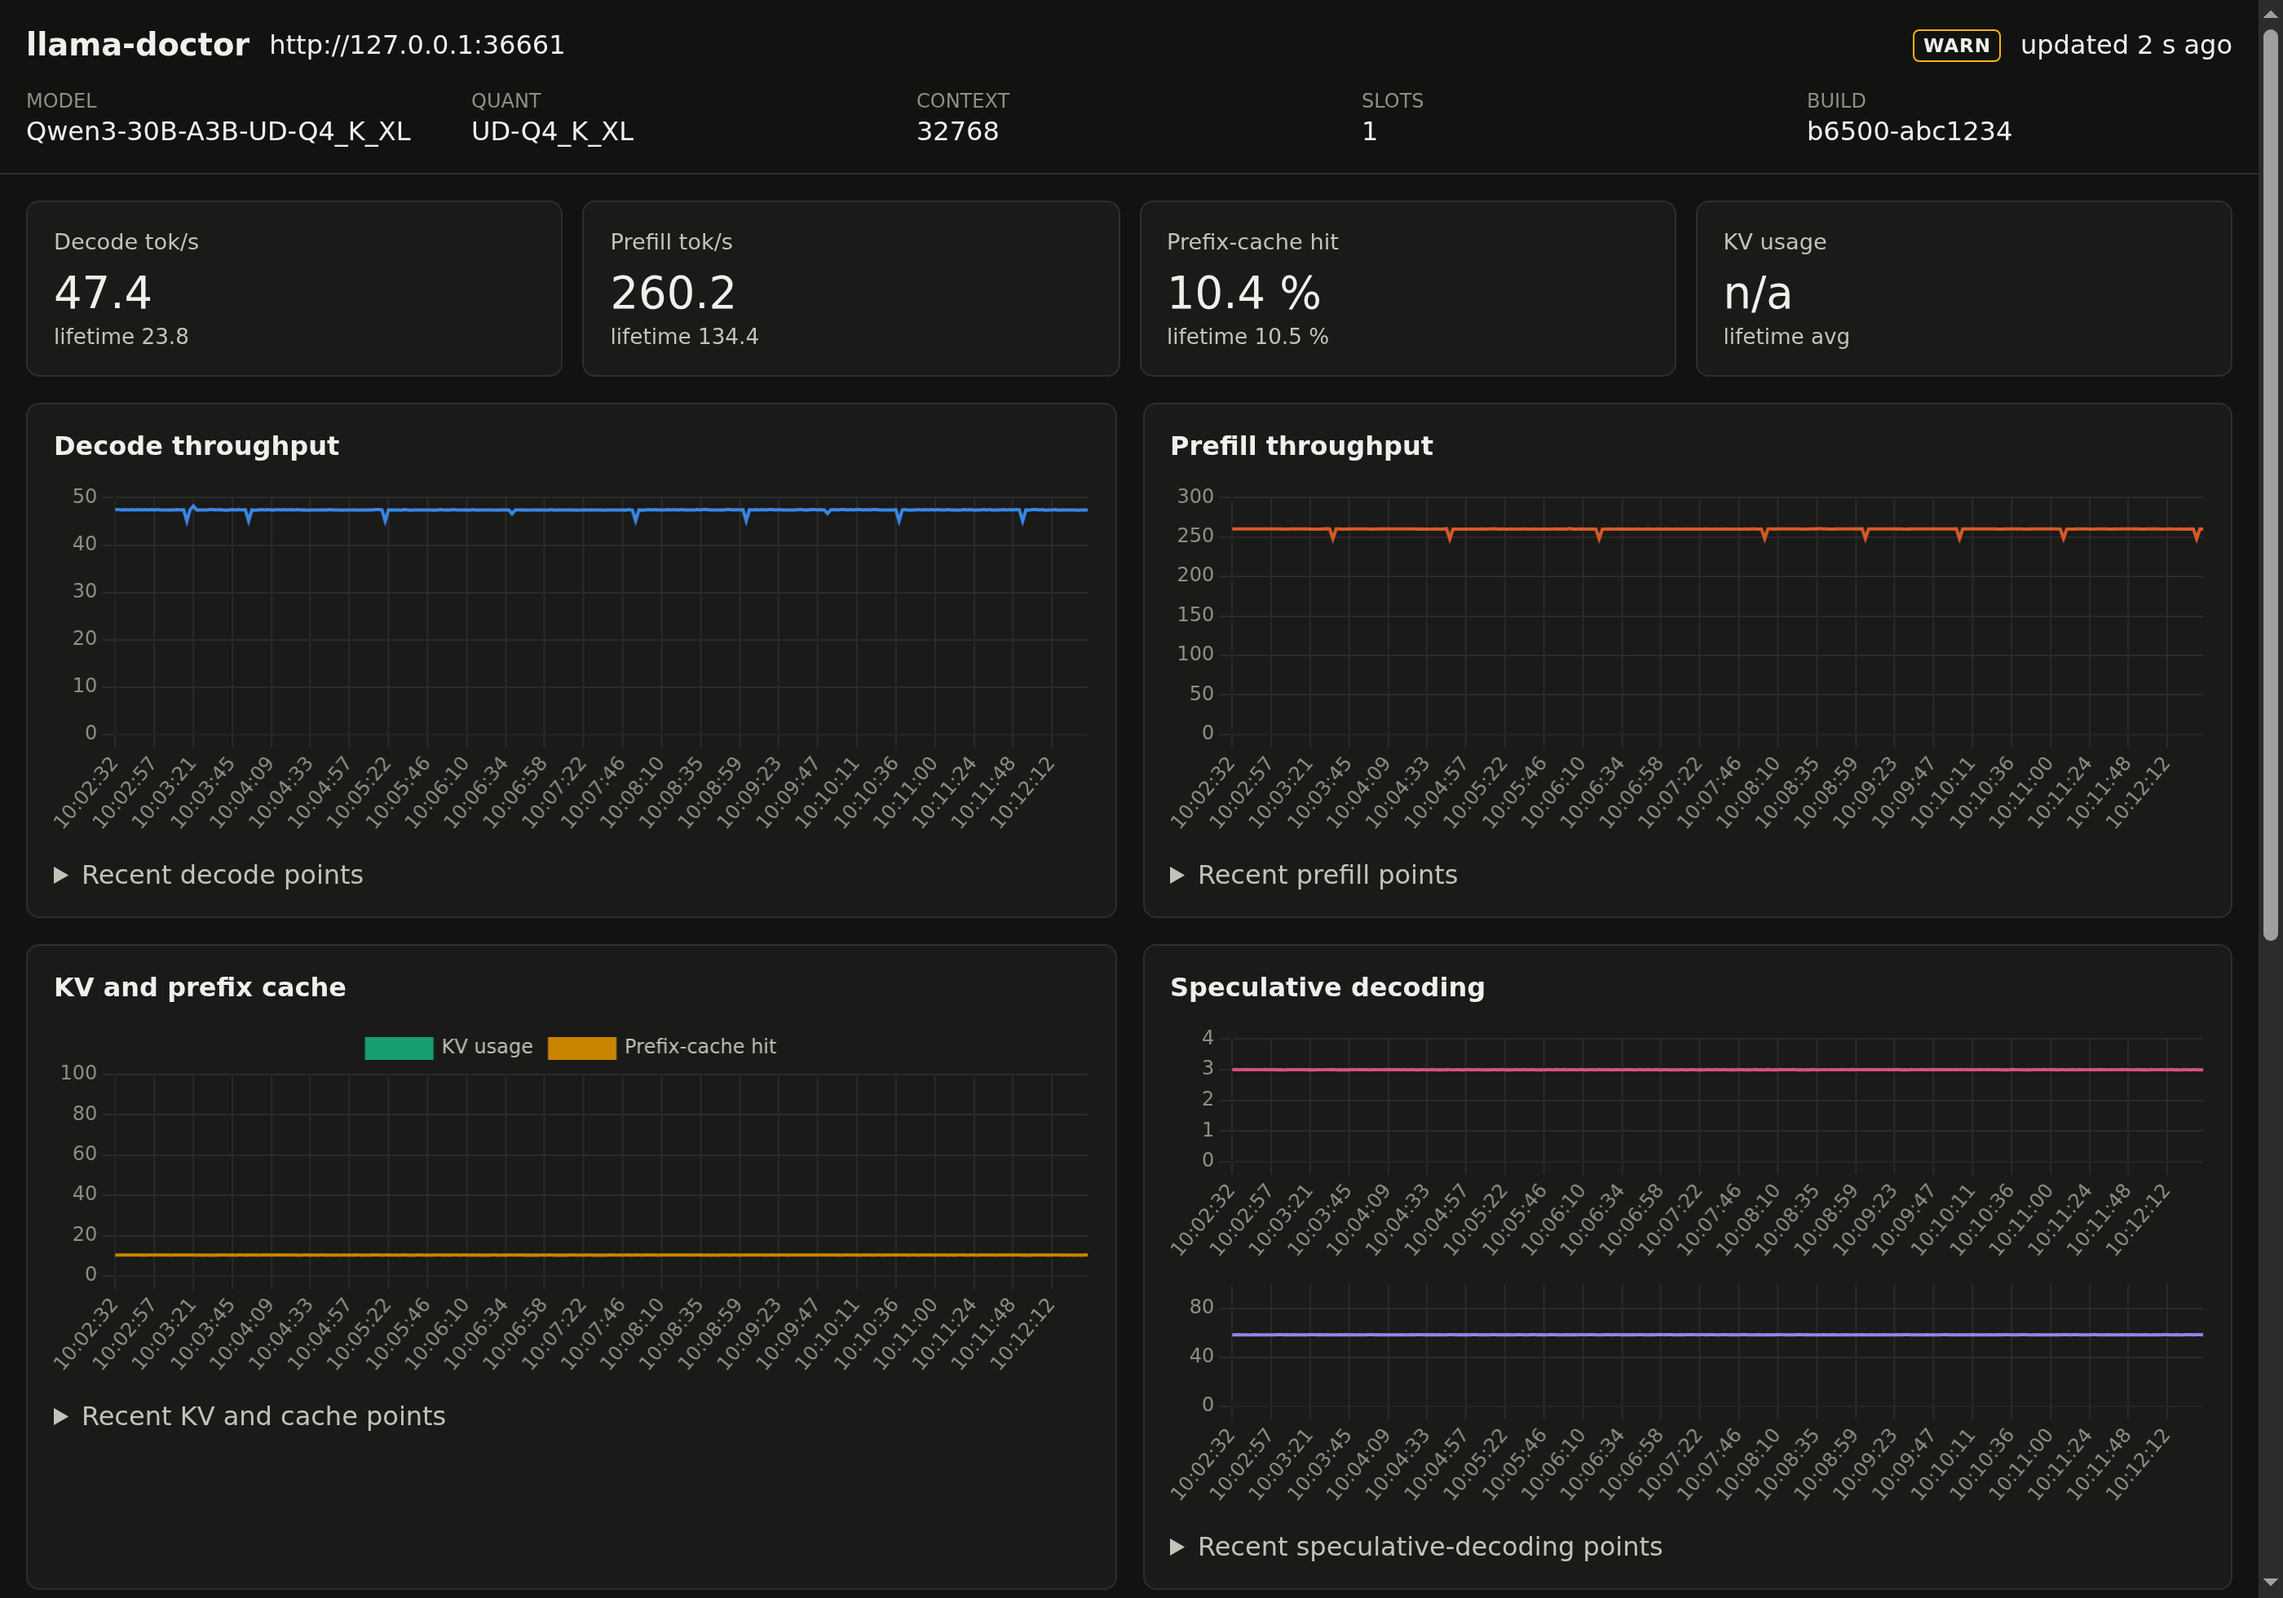
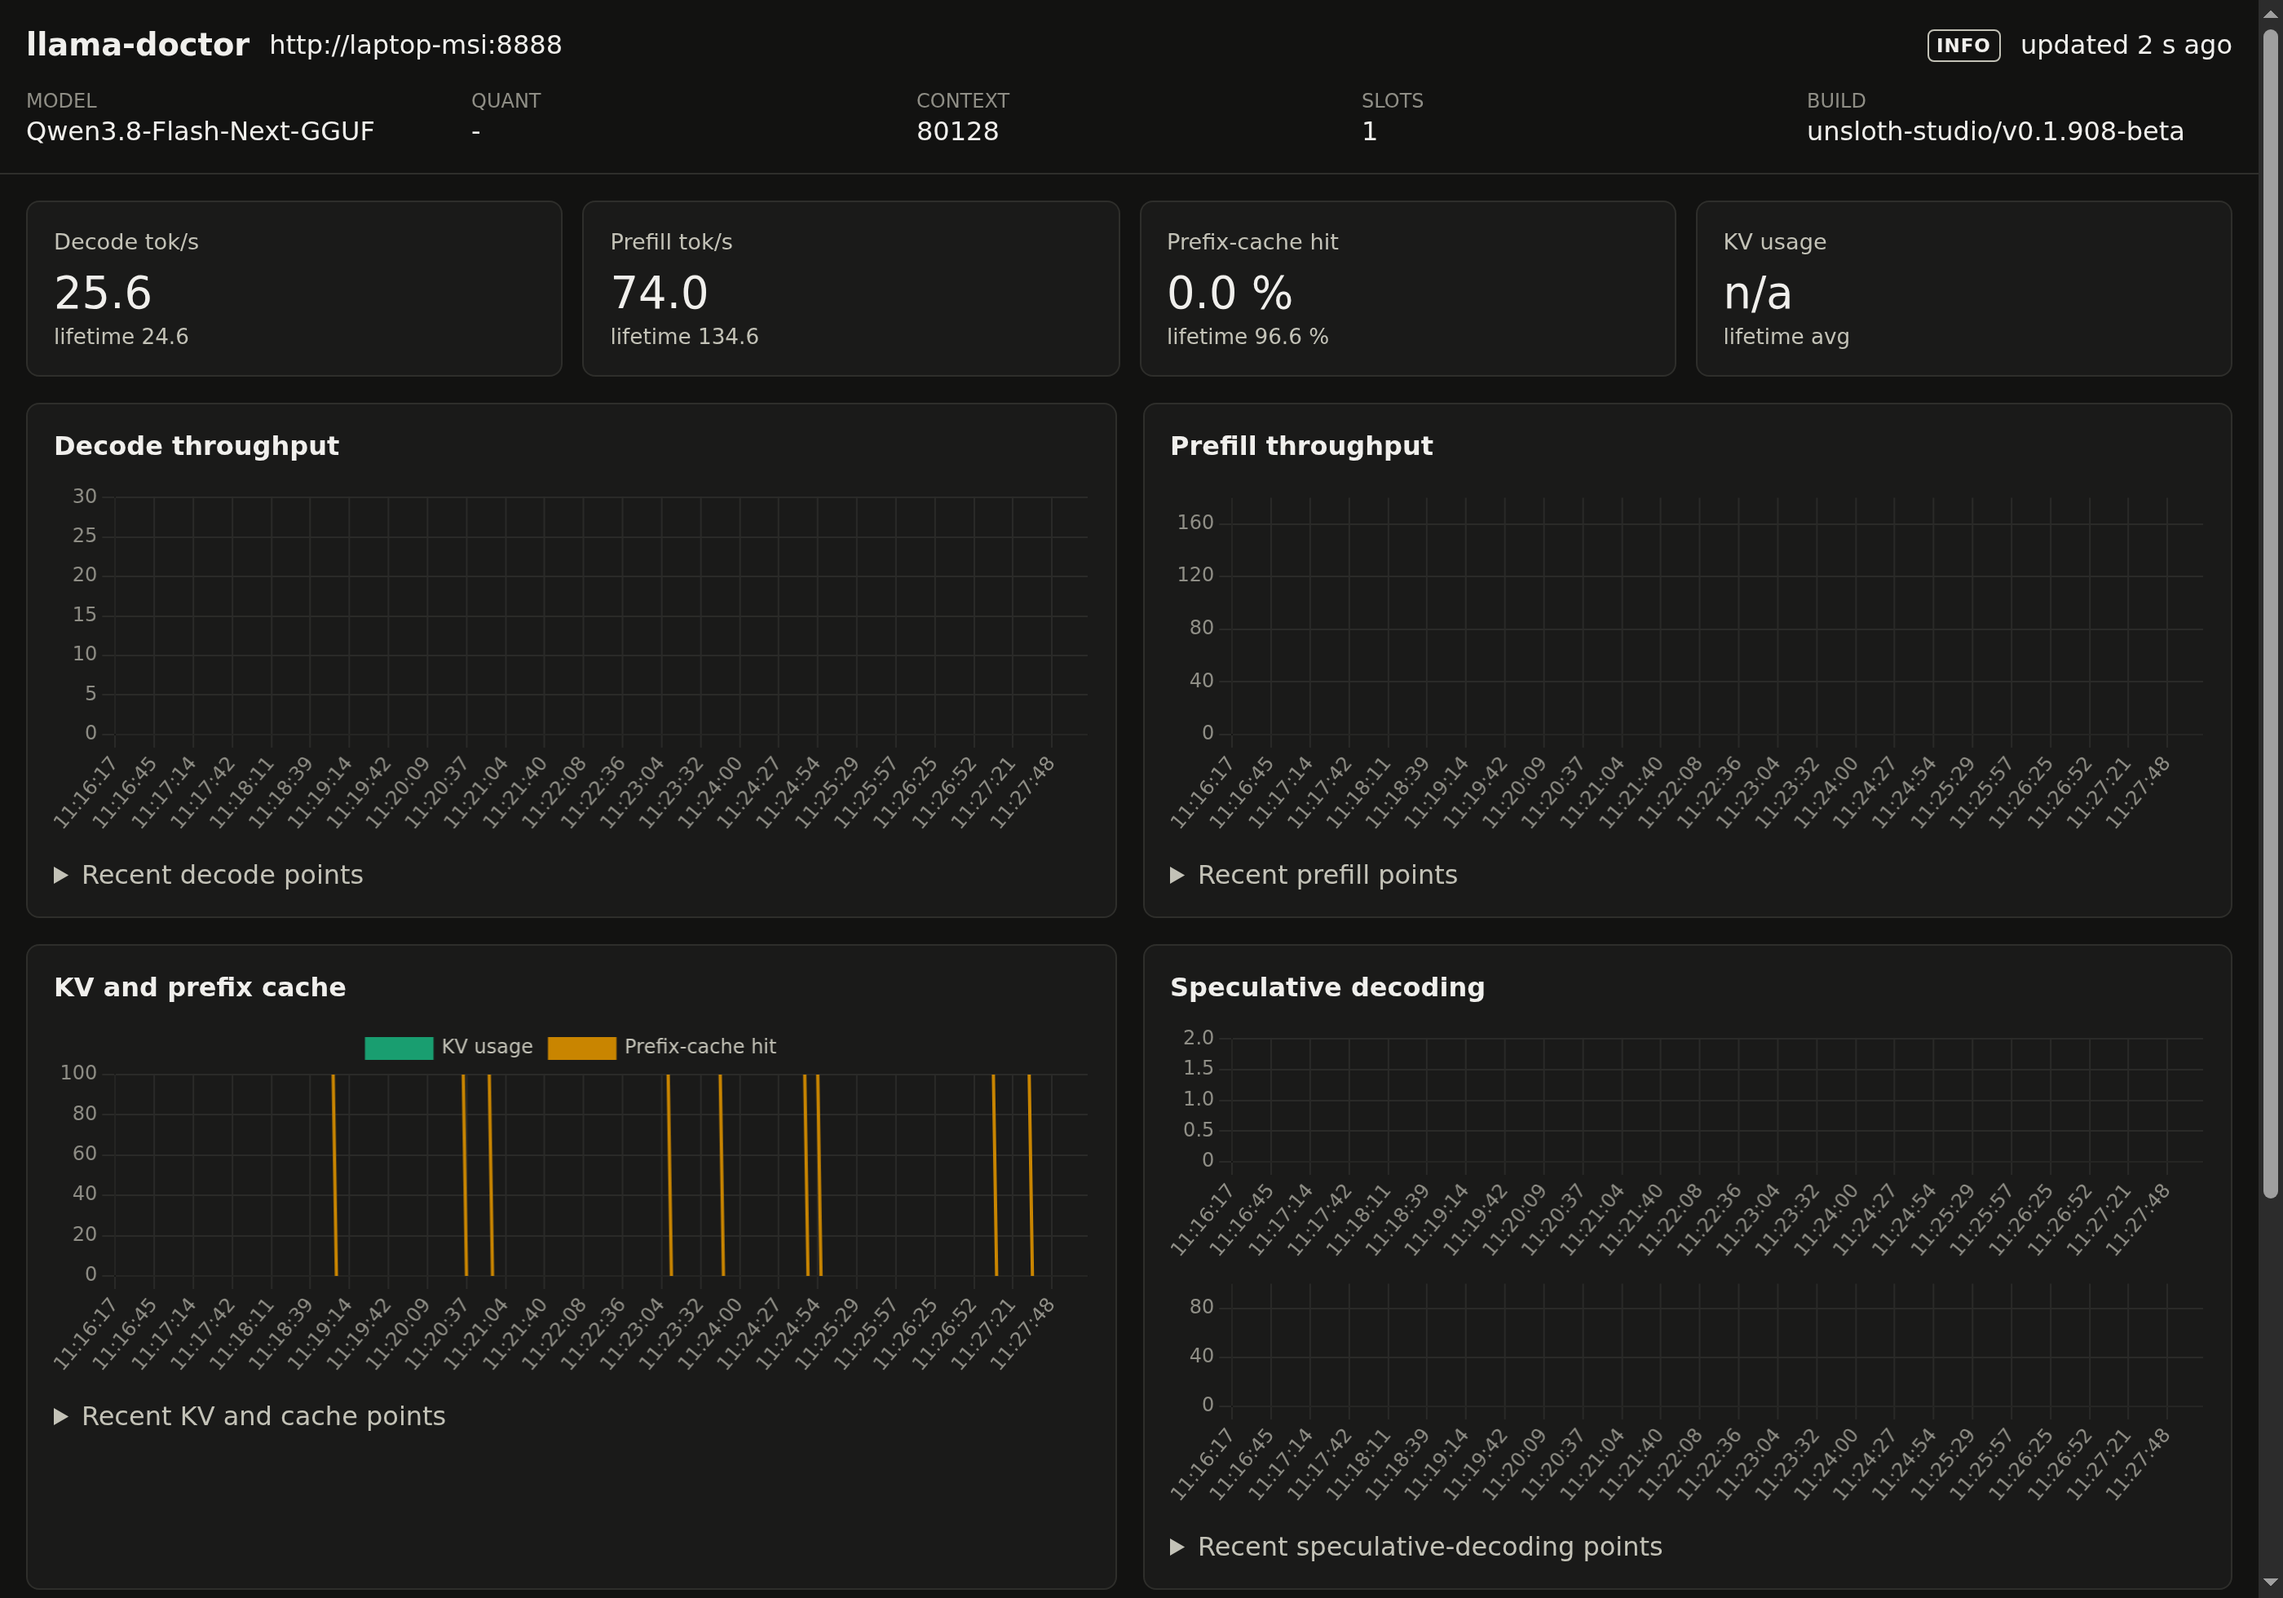
Retake screenshots against live Unsloth Studio server
Dashboard and findings captures now show the real target
(unsloth-studio/v0.1.908-beta serving Qwen3.8-Flash-Next-GGUF), with a
matching diagnose transcript. The previous captures used bundled fixture
data, which did not match any actual deployment.

diff --git a/README.md b/README.md
@@ -8,7 +8,7 @@ A command-line tool that reads a local LLM server's metrics and tells you what i
 
 ![Dashboard](docs/assets/dashboard.png)
 
-The live dashboard on a Qwen3-30B MoE rig with offloaded experts.
+The live dashboard on an RTX 5080 rig running Unsloth Studio, serving Qwen3.8-Flash-Next-GGUF.
 
 ## What it does
 
@@ -38,39 +38,37 @@ PYTHONPATH=src python3 -m llama_doctor diagnose http://127.0.0.1:8080
 
 ## Quick start
 
-Point it at a running llama.cpp server:
+Point it at a running server. A plain llama.cpp server needs only the URL (for example `http://127.0.0.1:8080`); wrappers that require an API key, such as Unsloth Studio, take it from an environment variable via `--api-key-env`:
 
 ```sh
-llama-doctor diagnose http://127.0.0.1:8080
+llama-doctor diagnose http://laptop-msi:8888 --api-key-env UNSLOTH_API_KEY
 ```
 
 ```text
-llama-doctor 0.1.0  http://127.0.0.1:8080
-model  Qwen3-30B-A3B-UD-Q4_K_XL  quant UD-Q4_K_XL  ctx 32768  slots 1  build b6500-abc1234
+llama-doctor 0.1.0  http://laptop-msi:8888
+model  Qwen3.8-Flash-Next-GGUF  quant -  ctx 80128  slots 1  build unsloth-studio/v0.1.908-beta
 
 rates (lifetime averages)
-  prefill       8422.9 tok/s
-  decode        1457.9 tok/s
-  prefix cache  10.3 %
-  drafts        len 3.00  acceptance 58.3 %
+  prefill       135.2 tok/s
+  decode        24.6 tok/s
+  prefix cache  96.7 %
+  drafts        len 2.00  acceptance 64.6 %
 
 findings
-  WARN prefix_cache.low_hit_ratio  Prefix cache hit rate is low
-        Few prompt tokens are reused.
-  WARN kv.context_oversized  Context is oversized
-        Observed peak token use is far below configured context.
+  INFO prefill.slow  Prefill is slow
+        Prefill throughput is below the expected range.
   OK   connectivity.ok  Endpoints available
-  OK   prefill.ok  Prefill throughput is healthy
   OK   decode.ok  Decode throughput is healthy
+  OK   prefix_cache.ok  Prefix cache is effective
+  OK   kv.ok  KV cache sizing is healthy
   OK   spec.ok  Speculative decoding is healthy
-  OK   props.ok  Properties are complete
   N/A  memory.insufficient_data  Memory estimate unavailable
         Provide --vram-gib and optionally --ram-gib.
+  N/A  props.minimal  Properties are minimal
+        Wrapper builds such as unsloth-studio omit required fields.
 recommendations (by impact)
-  1. high   Keep the prompt prefix byte-identical and put variable content last.
-  2. medium Enable cache reuse.  [--cache-reuse]
-  3. medium Set context to 12288.  [-c]
-overall: WARN (exit 1)
+  1. medium Increase micro-batch size.  [--ubatch-size]
+overall: INFO (exit 0)
 ```
 
 Exit codes: `0` = OK, `1` = WARN, `2` = CRIT (including server unreachable), `3` = invalid usage or arguments.
